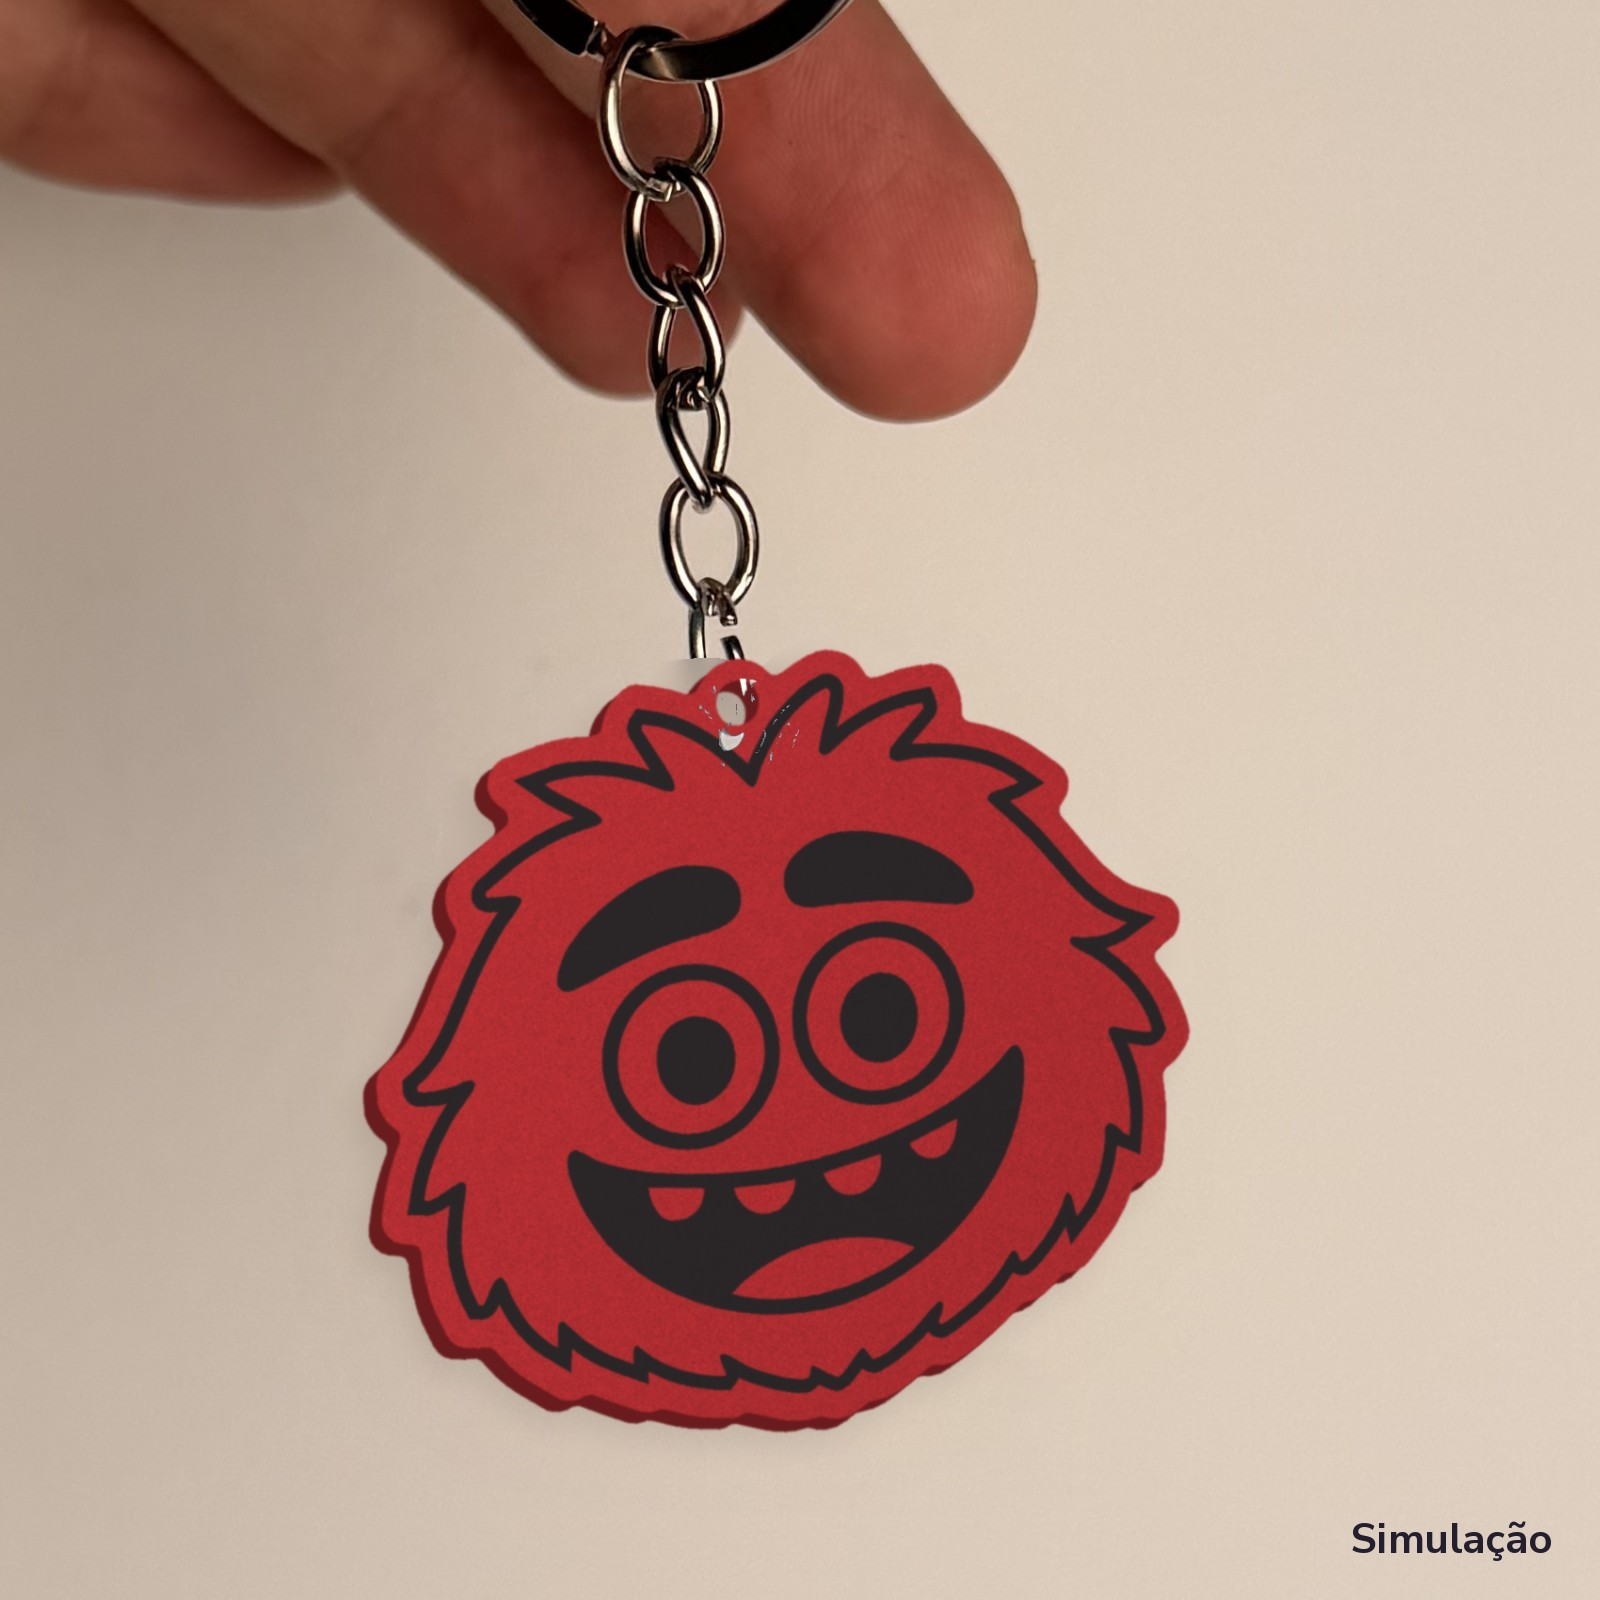
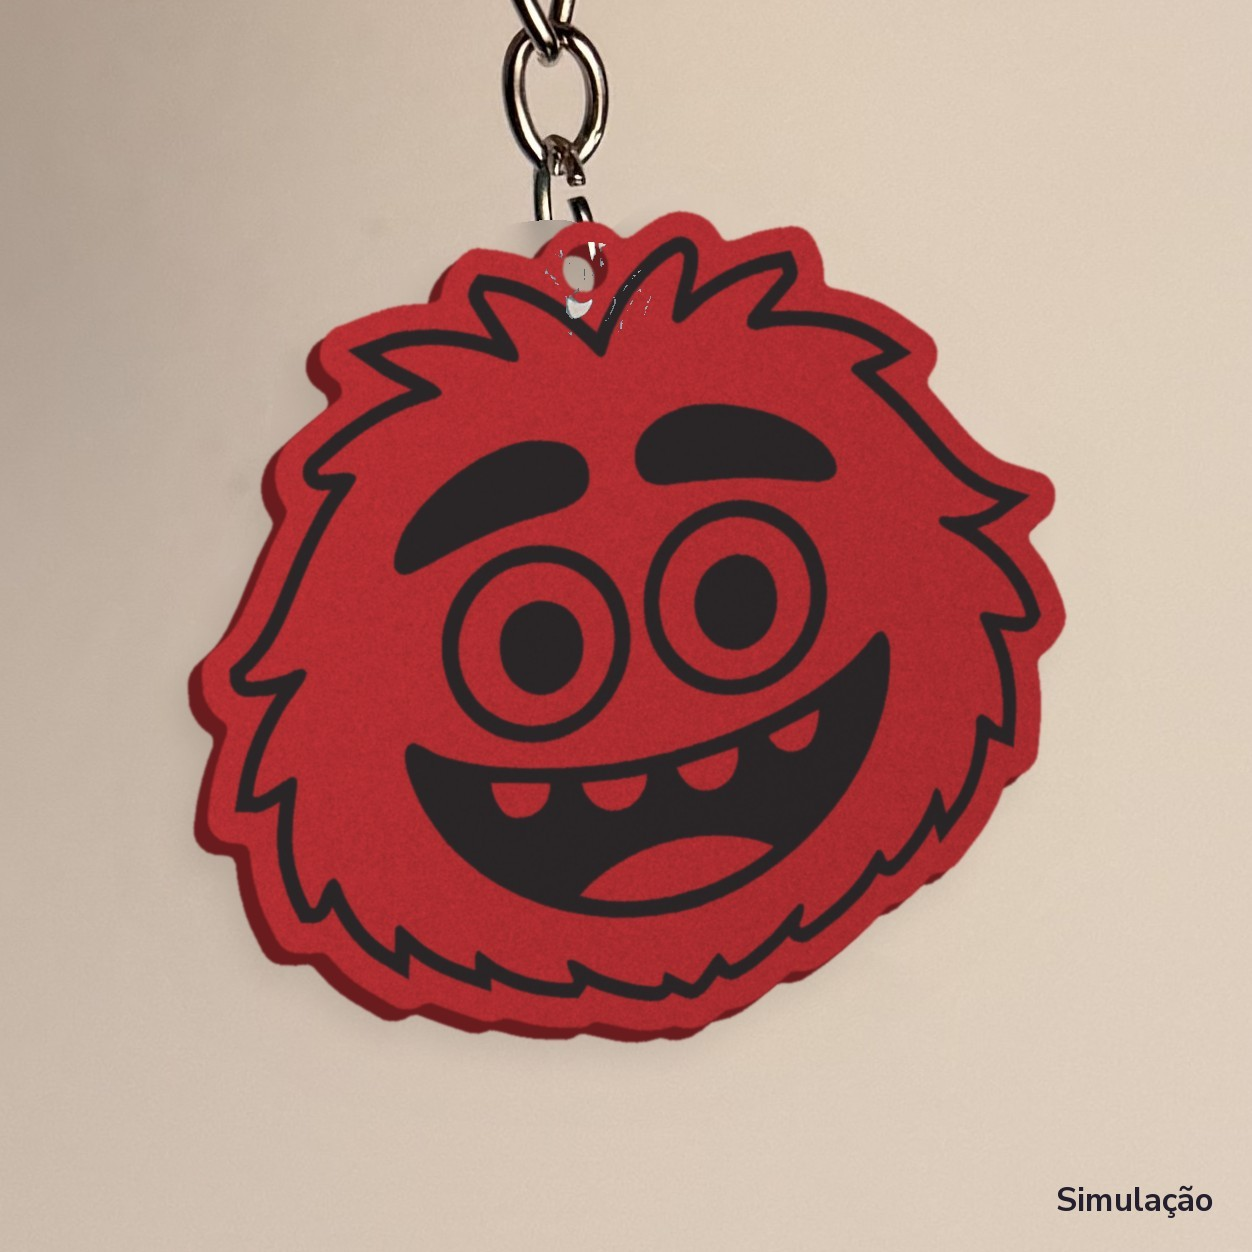
CNA: fotos centralizadas, giratório com foto nova, preços (SQL 021 e 022)

diff --git a/index.html b/index.html
@@ -882,7 +882,7 @@ function paginaEmpresas() {
 const RESERVADAS = {
   cna: { selo: 'Para unidades CNA', titulo: 'Brindes com os monstrinhos do CNA', texto: 'Chaveiros, microfone e plaquinhas de pintar com a marca e os monstrinhos do CNA, feitos em 3D pra sua unidade presentear alunos e famílias. 💜',
     passos: ['Escolha as peças e a quantidade', 'A gente manda o orçamento e o prazo', 'A produção começa depois da aprovação e do pagamento'],
-    secao: 'Peças para a sua unidade', sub: 'O valor sai pela quantidade. Adicione as peças e envie o pedido pelo WhatsApp.',
+    secao: 'Peças para a sua unidade', sub: 'Quanto mais peças, menor o preço. Acima de 50 a gente combina com você. Adicione as peças e envie o pedido pelo WhatsApp.',
     whats: 'Oi, Mimori! Sou do CNA e quero um orçamento de brindes.\nUnidade: \nPeças: \nQuantidade: \nData de entrega: ' }
 };
 function paginaReservada(cat) {
